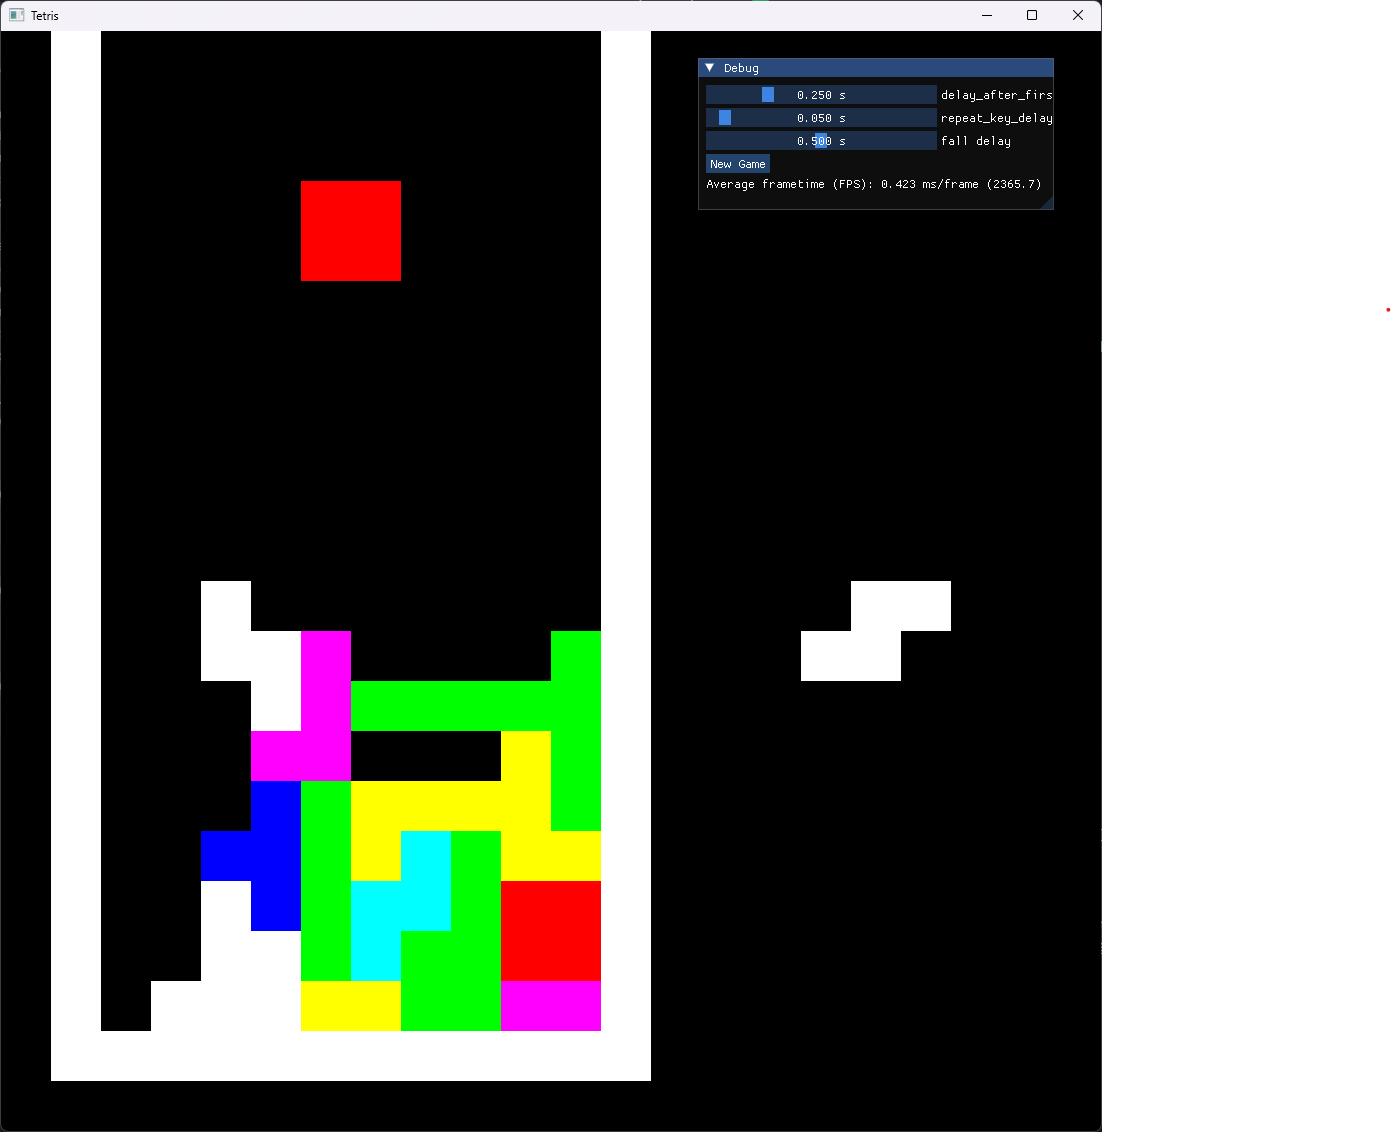
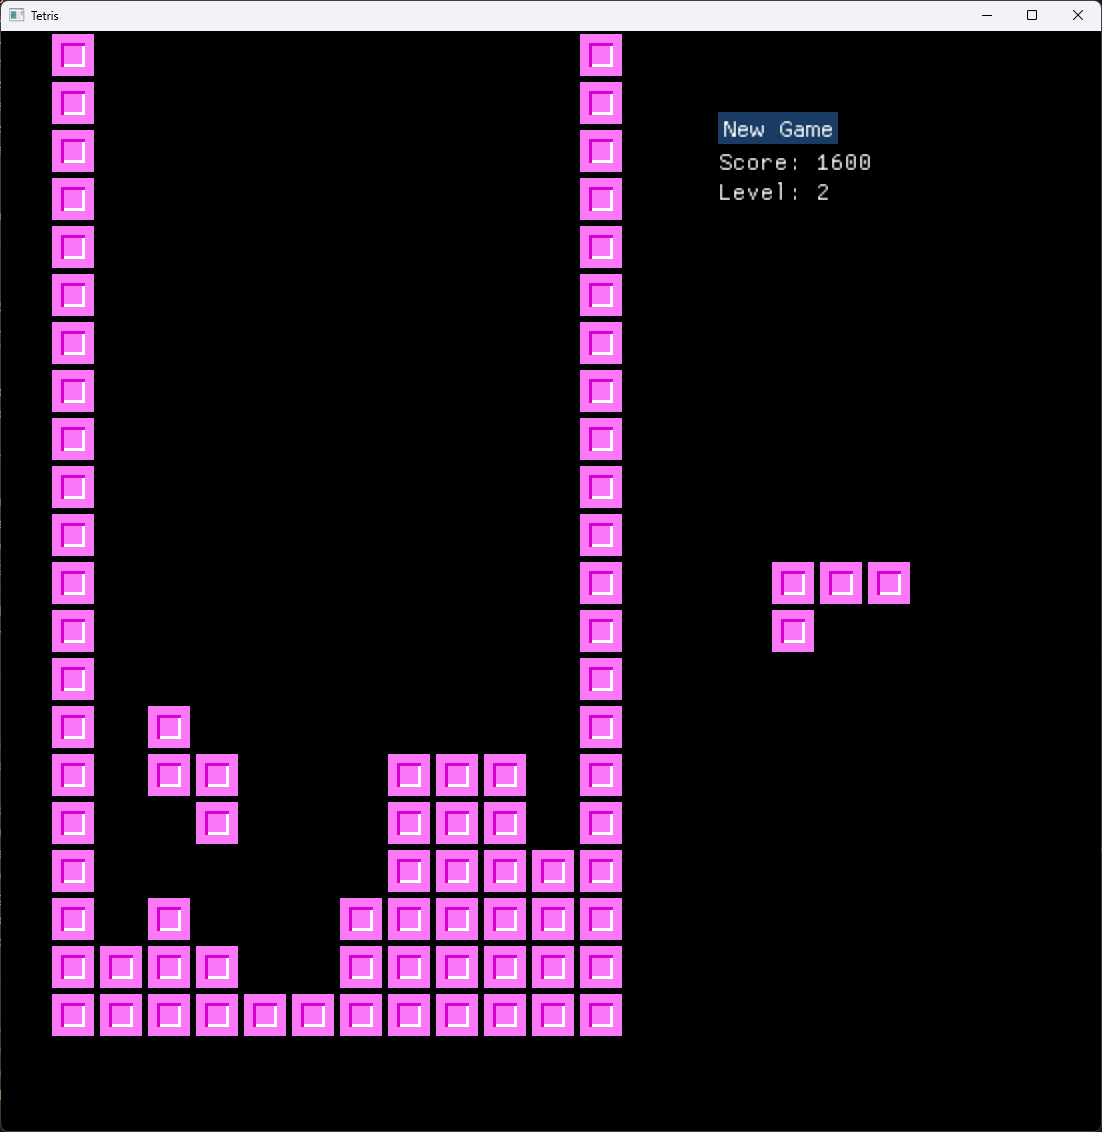
added level system with colors per level

diff --git a/include/TetrisState.h b/include/TetrisState.h
@@ -4,7 +4,7 @@
 
 struct block {
     glm::vec2 position;
-    glm::vec4 color;
+    int32_t type;
 };
 
 constexpr enum TetrisDirections {
@@ -32,52 +32,52 @@ struct KeyStatus {
 constexpr block tetrominos[][4] = {
     {
         // O
-        {glm::ivec2(0, 0), glm::vec4(1.0f, 0.0f, 0.0f, 1.0f)},
-        {glm::ivec2(-1, 0), glm::vec4(1.0f, 0.0f, 0.0f, 1.0f)},
-        {glm::ivec2(-1, 1), glm::vec4(1.0f, 0.0f, 0.0f, 1.0f)},
-        {glm::ivec2(0, 1), glm::vec4(1.0f, 0.0f, 0.0f, 1.0f)},
+        {glm::ivec2(0, 0), 1},
+        {glm::ivec2(-1, 0), 1},
+        {glm::ivec2(-1, 1), 1},
+        {glm::ivec2(0, 1), 1},
     },
     {
         // I
-        {glm::ivec2(0, 0), glm::vec4(0.0f, 1.0f, 0.0f, 1.0f)},
-        {glm::ivec2(-1, 0), glm::vec4(0.0f, 1.0f, 0.0f, 1.0f)},
-        {glm::ivec2(1, 0), glm::vec4(0.0f, 1.0f, 0.0f, 1.0f)},
-        {glm::ivec2(-2, 0), glm::vec4(0.0f, 1.0f, 0.0f, 1.0f)},
+        {glm::ivec2(0, 0), 2},
+        {glm::ivec2(-1, 0), 2},
+        {glm::ivec2(1, 0), 2},
+        {glm::ivec2(-2, 0), 2},
     },
     {
         // T
-        {glm::ivec2(0, 0), glm::vec4(0.0f, 0.0f, 1.0f, 1.0f)},
-        {glm::ivec2(-1, 0), glm::vec4(0.0f, 0.0f, 1.0f, 1.0f)},
-        {glm::ivec2(1, 0), glm::vec4(0.0f, 0.0f, 1.0f, 1.0f)},
-        {glm::ivec2(0, 1), glm::vec4(0.0f, 0.0f, 1.0f, 1.0f)},
+        {glm::ivec2(0, 0), 3},
+        {glm::ivec2(-1, 0), 3},
+        {glm::ivec2(1, 0), 3},
+        {glm::ivec2(0, 1), 3},
     },
     {
         // L
-        {glm::ivec2(0, 0), glm::vec4(1.0f, 1.0f, 0.0f, 1.0f)},
-        {glm::ivec2(-1, 0), glm::vec4(1.0f, 1.0f, 0.0f, 1.0f)},
-        {glm::ivec2(1, 0), glm::vec4(1.0f, 1.0f, 0.0f, 1.0f)},
-        {glm::ivec2(-1, 1), glm::vec4(1.0f, 1.0f, 0.0f, 1.0f)},
+        {glm::ivec2(0, 0), 4},
+        {glm::ivec2(-1, 0), 4},
+        {glm::ivec2(1, 0), 4},
+        {glm::ivec2(-1, 1), 4},
     },
     {
         // J
-        {glm::ivec2(0, 0), glm::vec4(1.0f, 0.0f, 1.0f, 1.0f)},
-        {glm::ivec2(-1, 0), glm::vec4(1.0f, 0.0f, 1.0f, 1.0f)},
-        {glm::ivec2(1, 0), glm::vec4(1.0f, 0.0f, 1.0f, 1.0f)},
-        {glm::ivec2(1, 1), glm::vec4(1.0f, 0.0f, 1.0f, 1.0f)},
+        {glm::ivec2(0, 0), 5},
+        {glm::ivec2(-1, 0), 5},
+        {glm::ivec2(1, 0), 5},
+        {glm::ivec2(1, 1), 5},
     },
     {
         // Z
-        {glm::ivec2(0, 0), glm::vec4(0.0f, 1.0f, 1.0f, 1.0f)},
-        {glm::ivec2(-1, 0), glm::vec4(0.0f, 1.0f, 1.0f, 1.0f)},
-        {glm::ivec2(0, 1), glm::vec4(0.0f, 1.0f, 1.0f, 1.0f)},
-        {glm::ivec2(1, 1), glm::vec4(0.0f, 1.0f, 1.0f, 1.0f)},
+        {glm::ivec2(0, 0), 6},
+        {glm::ivec2(-1, 0), 6},
+        {glm::ivec2(0, 1), 6},
+        {glm::ivec2(1, 1), 6},
     },
     {
         // S
-        {glm::ivec2(0, 0), glm::vec4(1.0f, 1.0f, 1.0f, 1.0f)},
-        {glm::ivec2(1, 0), glm::vec4(1.0f, 1.0f, 1.0f, 1.0f)},
-        {glm::ivec2(0, 1), glm::vec4(1.0f, 1.0f, 1.0f, 1.0f)},
-        {glm::ivec2(-1, 1), glm::vec4(1.0f, 1.0f, 1.0f, 1.0f)},
+        {glm::ivec2(0, 0), 7},
+        {glm::ivec2(1, 0), 7},
+        {glm::ivec2(0, 1), 7},
+        {glm::ivec2(-1, 1), 7},
     },
 };
 
@@ -94,6 +94,8 @@ struct TetrisState {
     bool previous_clear_was_tetris = false;
     bool is_scene_dirty = false;
     double current_time = 0;
+    int level = 1;
+    int clears = 0;
 
     std::array<KeyStatus, TetrisDirections::_COUNT> keys = {0};
 };

diff --git a/src/TetrisGraphics.cpp b/src/TetrisGraphics.cpp
@@ -4,8 +4,9 @@ TetrisGraphics::TetrisGraphics(TetrisState& state)
     : state(state),
       program("assets/shaders/2d_projection.vert",
               "assets/shaders/dot_to_square.geom",
-              "assets/shaders/static_color.frag"),
-      block_texture("assets/textures/block.png") {
+              "assets/shaders/tetris.frag"),
+      block_texture("assets/textures/block.png"),
+      level_color_texture("assets/textures/level_colors.png") {
     // generate vertex array and buffer objects
     glGenVertexArrays(1, &VAO);
     glGenBuffers(1, &VBO);
@@ -18,8 +19,8 @@ TetrisGraphics::TetrisGraphics(TetrisState& state)
     // configure vertex attributes for position and color
     glVertexAttribPointer(0, 2, GL_FLOAT, GL_FALSE, sizeof(block),
                           (void*)offsetof(block, position));
-    glVertexAttribPointer(1, 4, GL_FLOAT, GL_FALSE, sizeof(block),
-                          (void*)(offsetof(block, color)));
+    glVertexAttribIPointer(1, 1, GL_INT, sizeof(block),
+                           (void*)(offsetof(block, type)));
     // unbind the VAO and VBO
     glBindBuffer(GL_ARRAY_BUFFER, 0);
     glBindVertexArray(0);
@@ -48,21 +49,33 @@ void TetrisGraphics::loop() {
 
     // ..:: Drawing code (in render loop) :: ..
     program.use();
-    program.set_uniform("projection", projection);
 
-    // Bind the block texture
-    block_texture.bind();
+    // Bind the textures and set their uniforms
+    block_texture.bind(0);
+    program.set_uniform("block_texture", 0);
+    level_color_texture.bind(1);
+    program.set_uniform("level_color_texture", 1);
+
+    // Set the uniforms for the shader
+    program.set_uniform("projection", projection);
+    program.set_uniform("level", state.level);
+
     // Bind the VAO and VBO
     glBindVertexArray(VAO);
     glBindBuffer(GL_ARRAY_BUFFER, VBO);
+
     // Update the VBO with the new data
     glBufferData(GL_ARRAY_BUFFER, sizeof(block) * state.blocks.size(),
                  state.blocks.data(), GL_DYNAMIC_DRAW);
+    
     // Draw the blocks
     glDrawArrays(GL_POINTS, 0, static_cast<GLsizei>(state.blocks.size()));
+    
     // Unbind the VAO and VBO
     glBindBuffer(GL_ARRAY_BUFFER, 0);
     glBindVertexArray(0);
-    // Unbind the block texture
-    block_texture.unbind();
+    
+    // Unbind the textures
+    level_color_texture.unbind(1);
+    block_texture.unbind(0);
 }

diff --git a/src/TetrisLogic.cpp b/src/TetrisLogic.cpp
@@ -30,6 +30,8 @@ void TetrisLogic::start_new_game() {
     state.is_game_over = false;
     state.should_start_new_game = false;
     state.score = 0;
+    state.level = 1;
+    state.clears = 0;
 
     time_of_last_move_down = 0;
     generate_new_upcoming_piece();
@@ -39,14 +41,12 @@ void TetrisLogic::start_new_game() {
 void TetrisLogic::create_boundary_walls() {
     // side walls
     for (int i = -5; i < 20; i++) {
-        blocks.push_back({glm::ivec2(1, i), glm::vec4(1.0f, 1.0f, 1.0f, 1.0f)});
-        blocks.push_back(
-            {glm::ivec2(12, i), glm::vec4(1.0f, 1.0f, 1.0f, 1.0f)});
+        blocks.push_back({glm::ivec2(1, i), 0});
+        blocks.push_back({glm::ivec2(12, i), 0});
     }
     // bottom wall
     for (int i = 1; i < 13; i++) {
-        blocks.push_back(
-            {glm::ivec2(i, 20), glm::vec4(1.0f, 1.0f, 1.0f, 1.0f)});
+        blocks.push_back({glm::ivec2(i, 20), 0});
     }
 }
 
@@ -251,5 +251,10 @@ void TetrisLogic::adjust_score(size_t rows_cleared) {
         state.previous_clear_was_tetris = false;
     }
 
-    state.score += points_per_row[rows_cleared];
+    state.score += points_per_row[rows_cleared] * state.level;
+    state.clears += rows_cleared;
+    if(state.clears >= 10) {
+        state.level++;
+        state.clears -= 10;
+    }
 }

diff --git a/src/Texture.cpp b/src/Texture.cpp
@@ -24,14 +24,25 @@ Texture::Texture(const std::string& path) {
     glTexImage2D(GL_TEXTURE_2D, 0, GL_RGBA, width, height, 0, GL_RGBA,
                  GL_UNSIGNED_BYTE, data);
     // free the image data
-    stbi_image_free(data);
+    // stbi_image_free(data);
 
     // unbind the texture
     glBindTexture(GL_TEXTURE_2D, 0);
 }
-
 Texture::~Texture() { glDeleteTextures(1, &texture); }
 
 void Texture::bind() { glBindTexture(GL_TEXTURE_2D, texture); }
 
+void Texture::bind(int textureUnit) {
+    glActiveTexture(GL_TEXTURE0 + textureUnit);
+    glBindTexture(GL_TEXTURE_2D, texture);
+    glActiveTexture(GL_TEXTURE0);
+}
+
 void Texture::unbind() { glBindTexture(GL_TEXTURE_2D, 0); }
+
+void Texture::unbind(int textureUnit) {
+    glActiveTexture(GL_TEXTURE0 + textureUnit);
+    glBindTexture(GL_TEXTURE_2D, 0);
+    glActiveTexture(GL_TEXTURE0);
+}

diff --git a/include/Texture.h b/include/Texture.h
@@ -11,7 +11,9 @@ class Texture{
     ~Texture();
 
     void bind();
+    void bind(int placeholder);
     void unbind();
+    void unbind(int placeholder);
 
     Texture(const Texture&) = delete;
     Texture(Texture&&) = delete;

diff --git a/src/TetrisUI.cpp b/src/TetrisUI.cpp
@@ -55,6 +55,7 @@ void TetrisUI::loop() {
         ImGui::Text("Game Over!");
     }
     ImGui::Text("Score: %d", state.score);
+    ImGui::Text("Level: %d", state.level);
 
     ImGui::End();
 

diff --git a/include/TetrisGraphics.h b/include/TetrisGraphics.h
@@ -9,6 +9,7 @@ class TetrisGraphics {
    private:
     Program program;
     Texture block_texture;
+    Texture level_color_texture;
     TetrisState& state;
     unsigned int VAO, VBO;
 

diff --git a/TODO.md b/TODO.md
@@ -1,5 +1,5 @@
-show one square ✅
-show multiple squares ✅
+show one block ✅
+show multiple blocks ✅
 pieces move ✅
 generate walls ✅
 compute collisions ✅
@@ -13,23 +13,24 @@ show upcoming tetromino ✅
 does gravity affect pressing down: no ✅
 score (imgui) ✅
 copy data only when changed! (on-demand rendering)  ✅
-
-texture for square
-
-texture for square colors with 2 colors per square (one for each level/type combination)
+texture for block  ✅
+texture for block colors per level  ✅
+levels  ✅
+dynamic score ✅
+improve block drawing / block texture ✅
 
 extract GameBoard class
 
-levels + speed up
+speed up per level
 
-dynamic score
-
-improve square drawing / square texture
+different textures for different blocks
 
 bumping + better rotation (store all rotations and position).
 
-WHY DOES SQUARE.POSITION WORK WITH FLOAT AND NOT INT???
-
-text rendering
+WHY DOES block.POSITION WORK WITH FLOAT AND NOT INT???
 
 scoreboard
+
+change imgui settings and font
+
+animations!

diff --git a/README.md b/README.md
@@ -38,11 +38,13 @@ There is also a menu that allows tweaking the certain delays in the game.
 The binary can be found in the `build\Release` directory if you followed the installation steps above.
 
 ## Features
-- Minimum Viable Product (MVP) for the Tetris game.
-- Improve user input handling by introducing a delay mechanism instead of using ticks.
-- Implement a feature where pressing down accelerates the automatic falling of Tetrominos.
+- Minimum Viable Product Tetris game.
+- Input based on delay instead of ticks for more responsive controls.
+- Piece dropping.
 - Preview of next tetromino
 - Imgui score display
+- Textured blocks
+- Per level color scheme
 - On-demand rendering to reduce CPU and GPU usage.
 
 ## Screenshots
